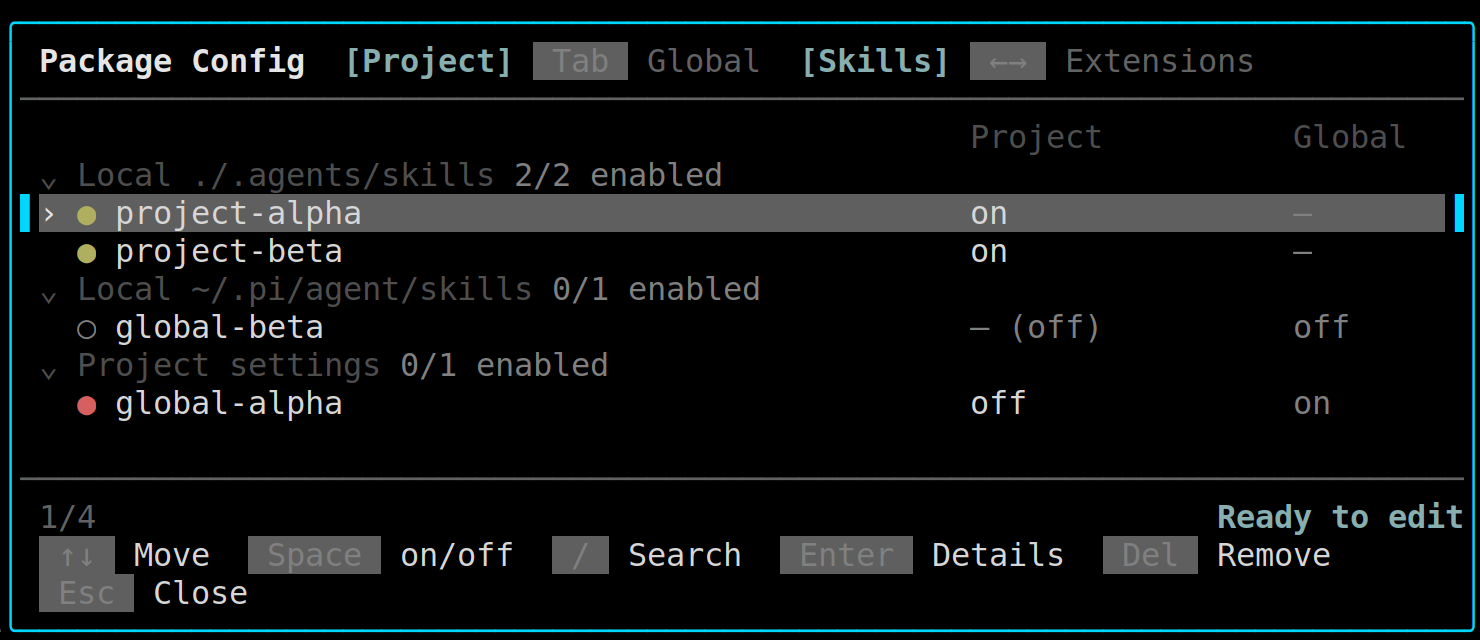
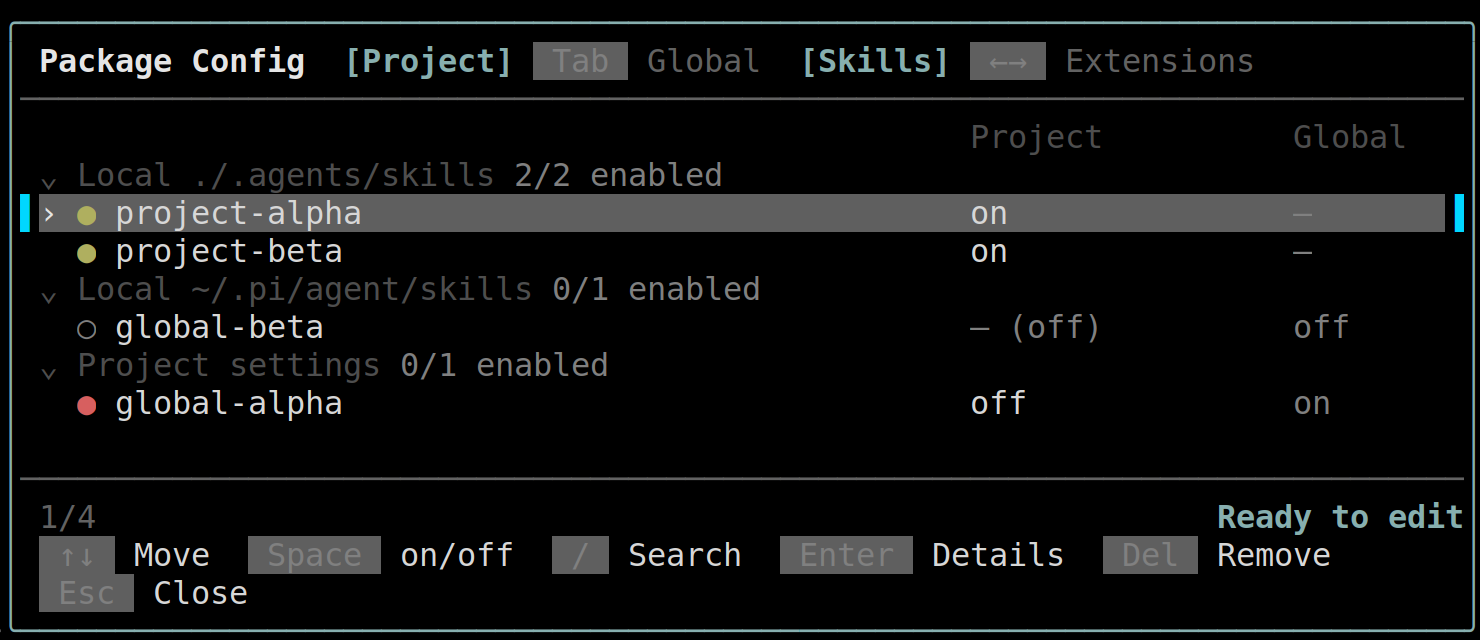
Soften the overlay frame color
The panel border now uses the theme accent instead of borderAccent, which
renders as a bright cyan frame in the dark theme. The selected row keeps
its borderAccent edges as the focus cue, and the README screenshot is
regenerated from a real session.

Changed region(s): [[0.0, 0.0312, 1.0, 1.0]]

diff --git a/src/ui.ts b/src/ui.ts
@@ -144,7 +144,7 @@ export class PackageManagerComponent implements Focusable {
 		if (width < 4) return [" ".repeat(Math.max(0, width))];
 		const inner = width - 2;
 		const lines: string[] = [];
-		const border = (text: string) => this.theme.fg("borderAccent", text);
+		const border = (text: string) => this.theme.fg("accent", text);
 		const row = (content = "") => {
 			const clipped = truncateToWidth(content, inner, "");
 			return `${border("│")}${clipped}${" ".repeat(Math.max(0, inner - visibleWidth(clipped)))}${border("│")}`;

diff --git a/docs/requirements.md b/docs/requirements.md
@@ -90,7 +90,7 @@ pi 本身能识别 `~/.agents/skills`、项目 `.agents/skills`（向上到 git 
 - 顶层只有 `Extensions` / `Skills` 两个 Tab；每个 Tab 只展示对应资源。
 - 顶层资源选择器顺序为 `Skills`、`Extensions`；作用域选择器独立存在，顺序为 `Project`、`Global`。
 - 两个选择器互相独立，不组合成四个 Tab；默认打开 `Skills + Project`。
-- 管理器保持居中的小型 overlay：默认宽度 80、最小宽度 50、最大高度为终端的 80%、外边距 1；外层面板与选中资源行使用当前主题的 `borderAccent`，静态来源标题使用 `borderMuted`，容器内部保持终端默认背景。
+- 管理器保持居中的小型 overlay：默认宽度 80、最小宽度 50、最大高度为终端的 80%、外边距 1；外层面板边框使用当前主题的 `accent`（比 `borderAccent` 柔和，避免深色主题下亮青色刺眼），选中资源行的左右边缘保留 `borderAccent` 作为焦点提示，静态来源标题使用 `borderMuted`，容器内部保持终端默认背景。
 - 所有 UI 文案、状态和提示使用纯英文。
 - 列表行显示名称、状态、对齐的 Project / Global 状态列与简短来源；当前项使用紧凑单行 `selectedBg`、accent 左右边缘和 `›` 指针；`Enter` 打开资源详情卡，展示名称、skill description、完整路径、package、覆盖关系和诊断；详情页 `Enter` 与 `Esc` 返回列表。
 - 标题栏使用 `Package Config   [Project] Tab Global   [Skills] ←→ Extensions` 的文本结构；当前选择使用 accent，`Tab` 与 `←→` 使用 dim 小按键标签；`Tab` 切换 Project/Global，`←/→` 切换 Skills/Extensions。
